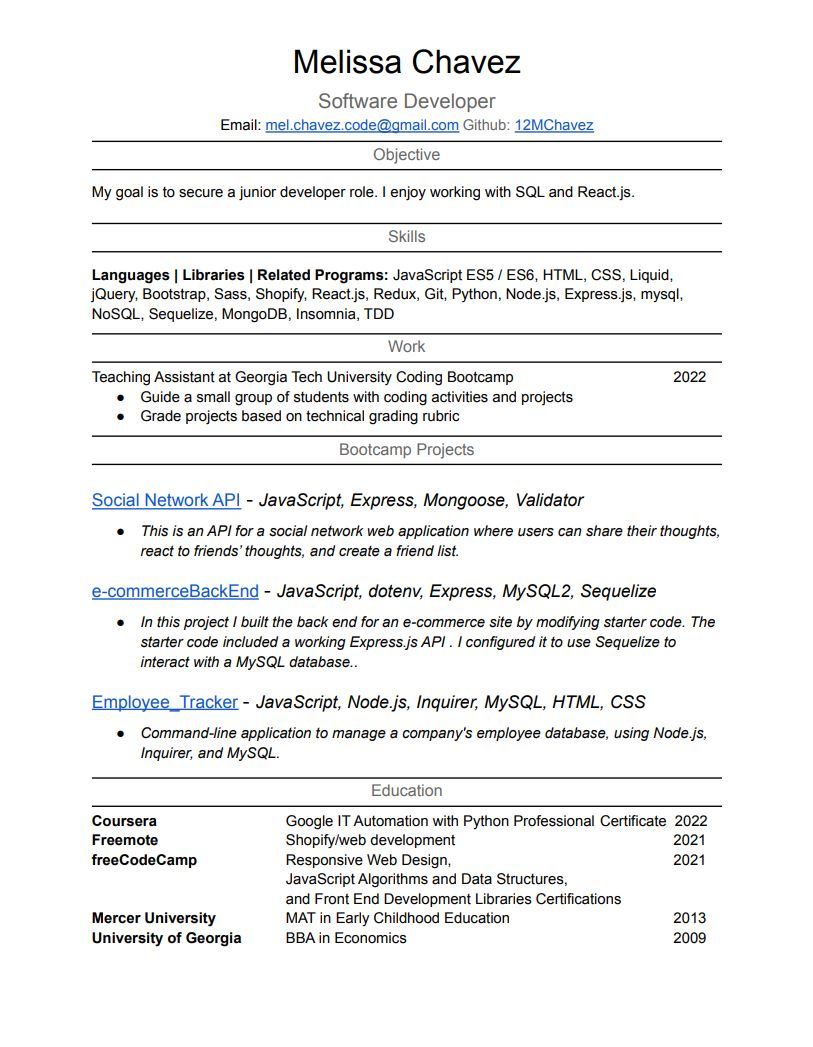
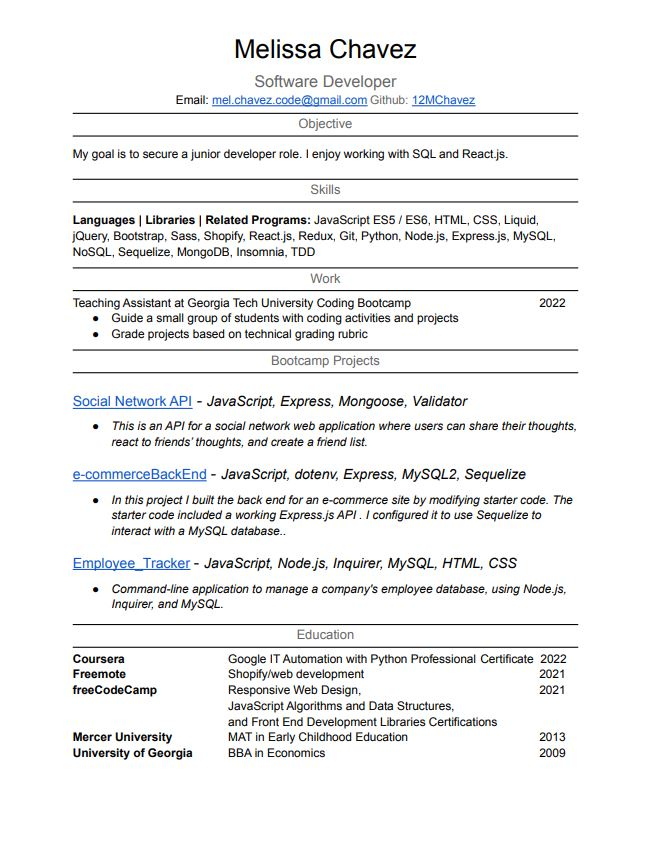
adjust background colors, still adjusting media queries for skills ul

Changed region(s): [[0.0922, 0.0307, 0.8909, 0.9198], [0.0922, 0.8585, 0.3072, 0.9198], [0.8295, 0.8585, 0.8909, 0.9198]]

diff --git a/src/bulma/css/bulma.min.css b/src/bulma/css/bulma.min.css
@@ -29,6 +29,10 @@
     vertical-align: top
 }
 
+.font-isBlack {
+    color: "#212529" !important;
+}
+
 .button:active,
 .button:focus,
 .file-cta:active,
@@ -402,7 +406,7 @@ th:not([align]) {
 }
 
 html {
-    background-color: #fff;
+    background-color: #f4a261;
     font-size: 16px;
     -moz-osx-font-smoothing: grayscale;
     -webkit-font-smoothing: antialiased;
@@ -442,7 +446,7 @@ pre {
 }
 
 body {
-    color: #4a4a4a;
+    color: #363636;
     font-size: 1em;
     font-weight: 400;
     line-height: 1.5
@@ -2242,6 +2246,12 @@ fieldset[disabled] .button {
 @media screen and (min-width:1024px) {
     .container {
         max-width: 960px
+    }
+
+    .skillsUl {
+
+        margin: "64px"
+
     }
 }
 
@@ -5487,6 +5497,8 @@ print {
         margin-right: auto;
     }
 
+
+
     .skills {
         font-size: 20px;
         list-style-type: none;
@@ -6845,16 +6857,16 @@ a.navbar-item {
     cursor: pointer
 }
 
-.navbar-link.is-active,
+/* .navbar-link.is-active,
 .navbar-link:focus,
 .navbar-link:focus-within,
 .navbar-link:hover,
 a.navbar-item.is-active,
 a.navbar-item:focus,
-a.navbar-item:focus-within,
+a.navbar-item:focus-within, */
 a.navbar-item:hover {
     background-color: #fafafa;
-    color: #485fc7
+    color: #264653
 }
 
 .navbar-item {
@@ -11430,11 +11442,23 @@ print {
     .has-text-centered-desktop-only {
         text-align: center !important
     }
+
+    .skillsUl {
+
+        margin: "0px"
+
+    }
 }
 
 @media screen and (min-width:1216px) {
     .has-text-centered-widescreen {
         text-align: center !important
+    }
+
+    .skillsUl {
+
+        margin: "0px"
+
     }
 }
 
@@ -11442,11 +11466,23 @@ print {
     .has-text-centered-widescreen-only {
         text-align: center !important
     }
+
+    .skillsUl {
+
+        margin: "0px"
+
+    }
 }
 
 @media screen and (min-width:1408px) {
     .has-text-centered-fullhd {
         text-align: center !important
+    }
+
+    .skillsUl {
+
+        margin: "0px"
+
     }
 }
 

diff --git a/src/pages/Resume.js b/src/pages/Resume.js
@@ -16,7 +16,6 @@ const Resume = (
       marginLeft: "auto",
       marginRight: "auto",
       marginTop: "10px",
-      background: "#7ebc89",
     }}
   >
     <Columns
@@ -84,7 +83,7 @@ const Resume = (
           }}
           widescreen={{ display: "inline" }}
         >
-          <ul>
+          <ul style={{ margin: "30px" }} className="skillsUl">
             <li className="skills">HTML</li>
             <li className="skills">CSS</li>
             <li className="skills">JavaScript</li>
@@ -96,7 +95,7 @@ const Resume = (
             <li className="skills">Python</li>
             <li className="skills">Node.js</li>
             <li className="skills">Express.js</li>
-            <li className="skills">mysql</li>
+            <li className="skills">MySQL</li>
             <li className="skills">Sequelize</li>
             <li className="skills">NoSQL</li>
             <li className="skills">MongoDB</li>

diff --git a/src/pages/AboutMe/AboutMe.js b/src/pages/AboutMe/AboutMe.js
@@ -12,7 +12,6 @@ const AboutMe = (
   <div
     style={{
       marginTop: "10px",
-      background: "#7ebc89",
     }}
   >
     <Columns
@@ -57,8 +56,8 @@ const AboutMe = (
             <p>
               My name is Melissa. I am what some might call a Jill of all
               trades. I did my undergrad at the University of Georgia, and grad
-              school at Mercer University. Recently I left the classroom and
-              started coding. Keep an eye out for updates to my portfolio.
+              school at Mercer University. Recently I started coding. Keep an
+              eye out for updates to my portfolio.
             </p>
           </Container>
         </Hero.Body>

diff --git a/src/components/Footer.js b/src/components/Footer.js
@@ -7,13 +7,13 @@ const FooterC = () => {
         <Hero.Header renderAs="header" />
 
         <Hero.Footer>
-          <Footer>
+          <Footer style={{ background: "#f4a261" }}>
             <Container>
-              <Content style={{ textAlign: "center" }}>
+              <Content style={{ textAlign: "center", background: "#e9c46a" }}>
                 <div>
                   <strong>
                     <p className="navbar-item">
-                      Made with love, react, and bulma.
+                      Made with love, React, and bulma.
                     </p>
                   </strong>{" "}
                   <a

diff --git a/src/pages/Contact.js b/src/pages/Contact.js
@@ -1,6 +1,6 @@
 import React from "react";
 import "../bulma/css/bulma.min.css";
-import { Container, Form, Button, Columns } from "react-bulma-components";
+import { Container, Form, Button } from "react-bulma-components";
 import FooterC from "../components/Footer";
 import validator from "validator";
 
@@ -80,7 +80,7 @@ const Contact = (
   <div
     style={{
       marginTop: "10px",
-      background: "#7ebc89",
+      // background: "#7ebc89",
     }}
   >
     <Container onChange={() => showSubmit()}>

diff --git a/src/components/Nav.js b/src/components/Nav.js
@@ -20,7 +20,11 @@ const Nav = () => {
   }
   return (
     <div>
-      <Navbar>
+      <Navbar
+        style={{
+          background: "#e9c46a",
+        }}
+      >
         <Navbar.Brand>
           <Heading size={3} subtitle>
             Melissa Chavez

diff --git a/src/pages/Portfolio.js b/src/pages/Portfolio.js
@@ -9,7 +9,6 @@ const Portfolio = projectData && (
   <div
     style={{
       marginTop: "10px",
-      background: "#7ebc89",
     }}
   >
     <Columns
